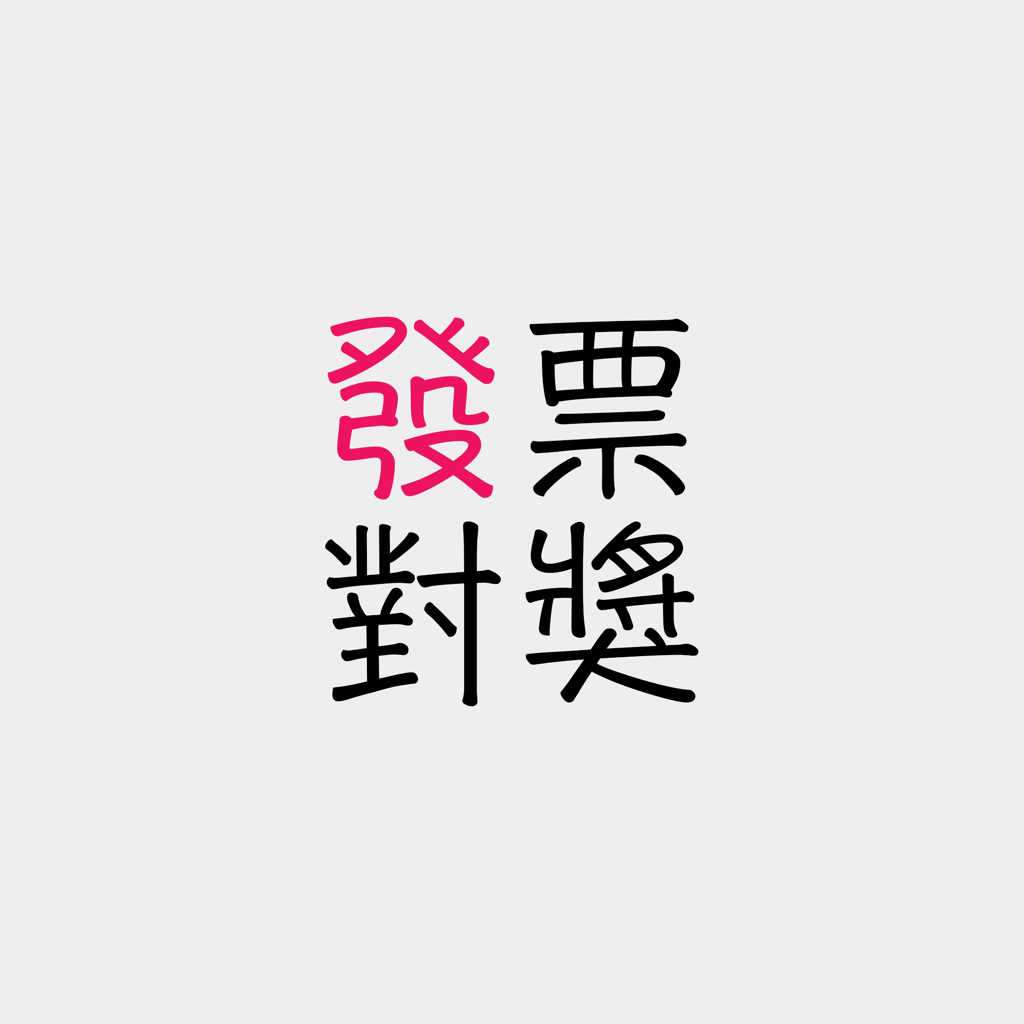
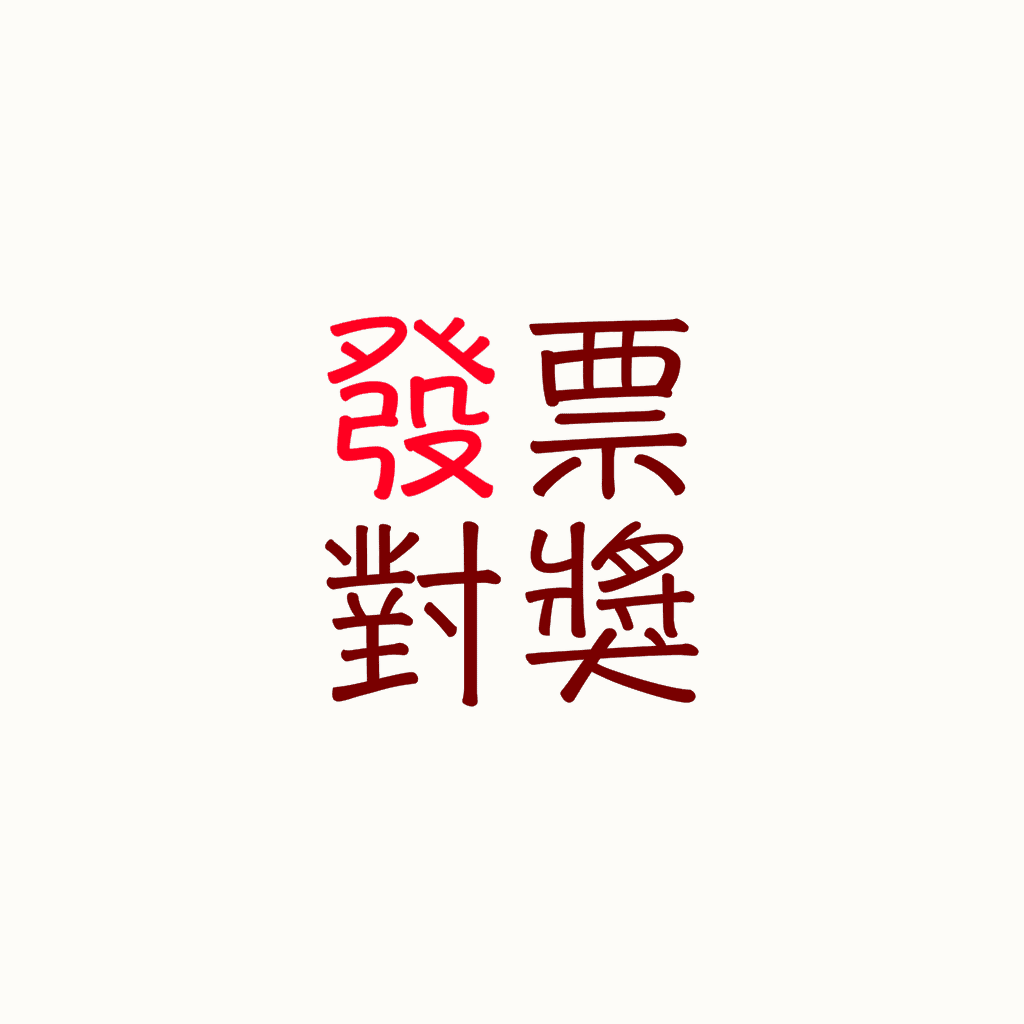
new theme

Changed region(s): [[0.3125, 0.3125, 0.6875, 0.6875], [0.6562, 0.4688, 0.6875, 0.5]]

diff --git a/index.html b/index.html
@@ -26,7 +26,7 @@ html, body, #content {
   font-family: sans-serif;
   font-weight: lighter;
   color: #222222;
-  background-color: #ededed;
+  background-color: #e6d9c3;
   text-align: center;
   line-height: 1.4;
 }
@@ -134,7 +134,7 @@ h1, h2, h3, h4, h5, h6 {
   top: 50%;
   margin-left: -50px;
   margin-top: -50px;
-  border: 10px solid #ededed;
+  border: 10px solid #e6d9c3;
 }
 #icon-row img {
   width: 100%;
@@ -223,27 +223,25 @@ h1, h2, h3, h4, h5, h6 {
   </div>
   <div id="right">
     <div class="iphone">
-      <img src="http://a2.mzstatic.com/us/r30/Purple3/v4/3c/cc/ab/3cccab7b-7161-522c-c229-f50a10f17624/screen1136x1136.jpeg">
+      <img src="./screen.png">
     </div>
   </div>
 </div>
 
 <div id="icon-row">
   <div id="icon-container">
-    <img src="http://is2.mzstatic.com/image/thumb/Purple7/v4/a7/3d/c7/a73dc7ab-8bbb-9216-00ba-587d728e29f0/source/512x512bb.jpg">
+    <img src="http://a2.mzstatic.com/us/r30/Purple71/v4/21/62/ec/2162ec08-6e58-52cb-5fe8-0678656c31c9/icon512x512.png">
   </div>
 </div>
 
 <div id="screenshots">
   
-    <img src="http://a2.mzstatic.com/us/r30/Purple1/v4/13/ef/cb/13efcb3a-df54-92f6-287a-986e44eeae88/screen1136x1136.jpeg">
-  
-    <img src="http://a5.mzstatic.com/us/r30/Purple2/v4/3e/6c/98/3e6c980f-de45-a192-fb77-22ac52a39aa8/screen1136x1136.jpeg">
-  
-    <img src="http://a2.mzstatic.com/us/r30/Purple1/v4/b3/49/ef/b349ef72-4e6f-4439-4c6a-ac62231120dd/screen1136x1136.jpeg">
-  
-    <img src="http://a5.mzstatic.com/us/r30/Purple1/v4/c5/bd/55/c5bd5560-5262-a2b9-f01a-0fed25a8d766/screen1136x1136.jpeg">
-  
+    <img src="./p1.png">
+    <img src="./p2.png">
+    <img src="./p3.png">
+    <img src="./p4.png">
+    <img src="./p5.png">
+
 </div>
 
 
